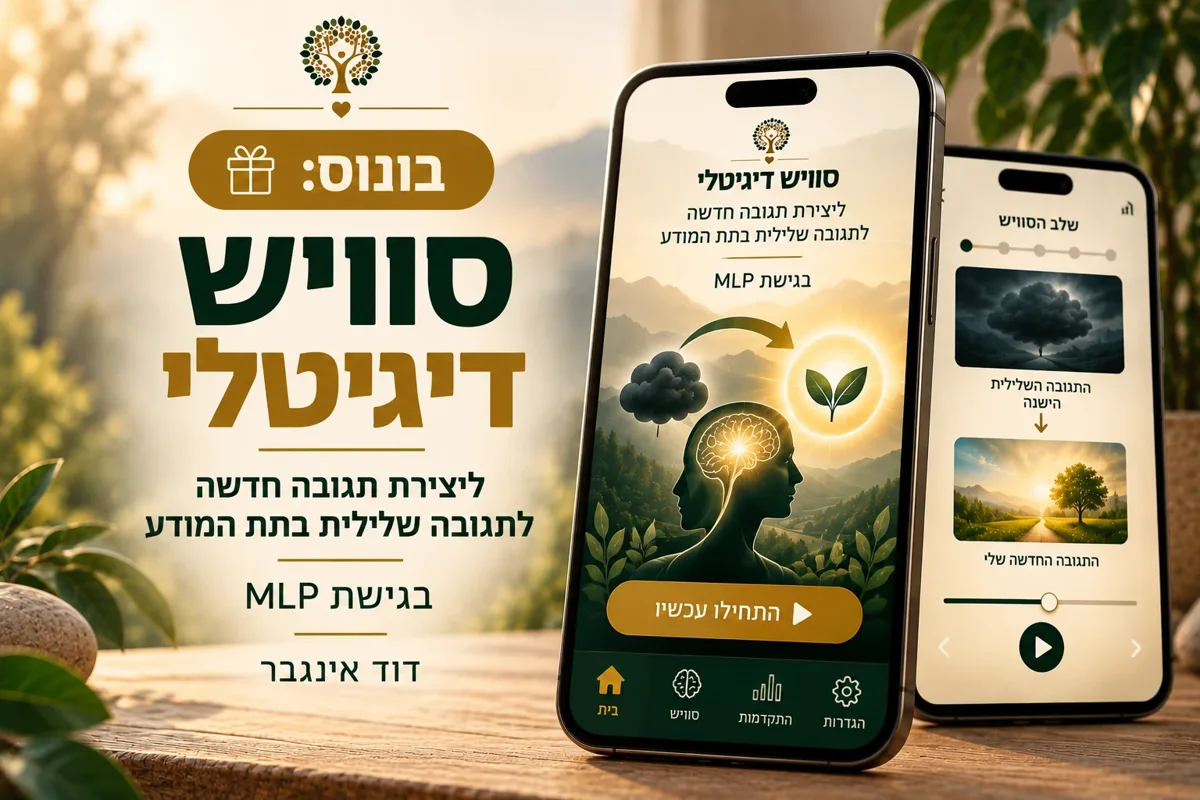
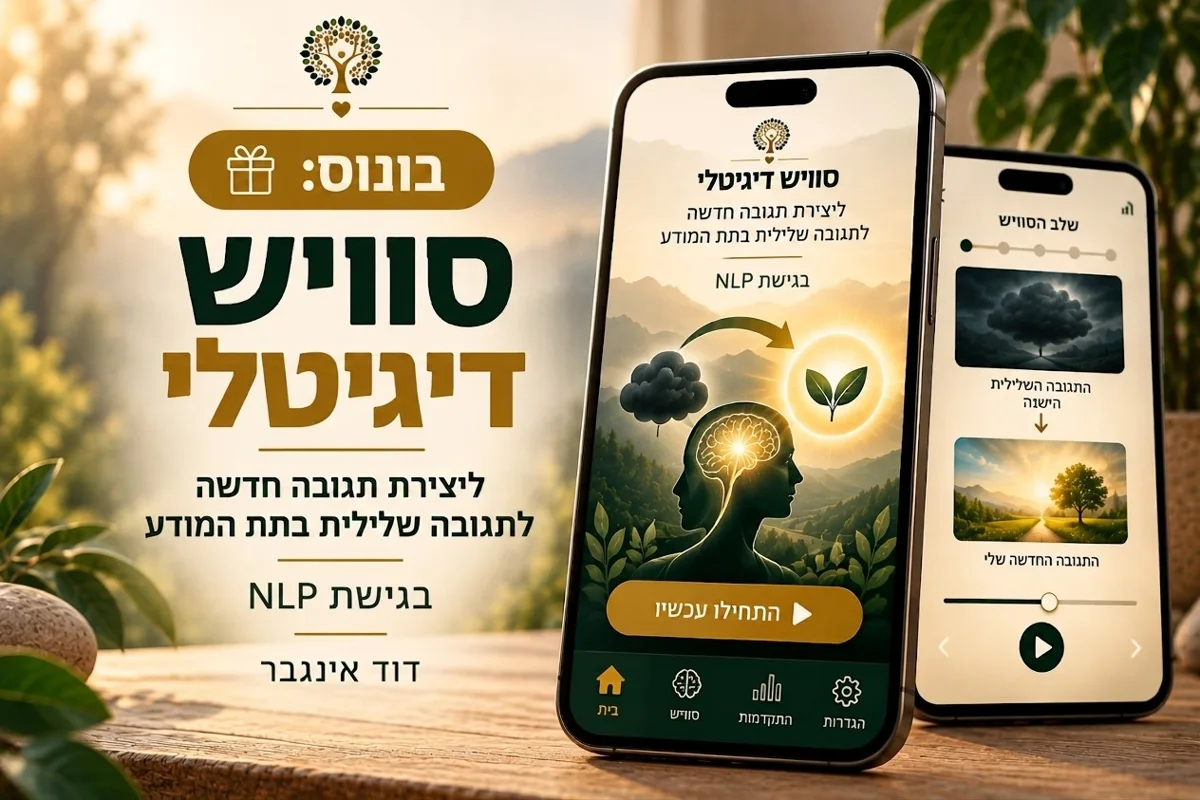
kurs/upsell: corrected NLP mockup and bonus images
Claude-Session: https://claude.ai/code/session_01SpGP6Wqt82ibf4opAuYhk3

diff --git a/CLAUDE.md b/CLAUDE.md
@@ -19,7 +19,7 @@ Personal site and marketing funnels for David Ingber (דוד אינגבר), an e
 - `hadracha/` — a **new, separate (third) lead-magnet entry point**, not part of `panel/` or `anxiety-wave/` — don't mix its naming into either. This is currently the **active** magnet flow for the anxiety/panic audience; `panel/`'s "מלכודת ההרגעה" self-test build still exists on disk but isn't the live path right now. Offer: **"מה לעשות כשהחרדה עולה"** (the original name from the general strategy doc's panel-2 "guide" step — intentionally reused here, distinct from `panel/`'s "מלכודת ההרגעה" and `anxiety-wave/`'s "כשהגל עולה"). `index.html` is a single opt-in landing page (name+email only, no phone, no matching questionnaire) built from David's own page-copy doc, styled in the same premium visual identity as `panel/masa-8-zehuyot.html` (dark green `#1B3A2C` + gold `#A9761B`/`#E0BE72`, Frank Ruhl Libre headings, Heebo body — see that file for the source of this palette). Submitting redirects to `thank-you.html` (a short congratulations screen in the same palette, with the accessibility widget and its own welcome-video slot via the `VIDEO_EMBED_URL` placeholder convention — a different video from `video.html`'s, currently unset pending David's new recording). The guide itself is no longer delivered by an on-page click-through: `thank-you.html` tells the visitor it's on its way to their email instead, and its CTA (plus a sticky mobile CTA) points straight at the premium program page, `https://davidingber.github.io/panel/masa-8-zehuyot.html` ("חוזרים לסמוך על עצמנו") — a deliberate change from the earlier "don't link to the premium page from this funnel" rule, made at David's explicit request. `video.html` still exists (its own embedded video via the same placeholder convention, a self-hosted guided-practice audio player, the accessibility widget, and privacy/accessibility footer links) but nothing in the live site links to it anymore — it's meant to be the page the (not yet built) follow-up email points to. Don't delete it, and don't re-link it from `thank-you.html` without being asked. Lead capture follows the `panel/` pattern (localStorage backup + Google Sheet webhook, see `panel/README.md`) and **is wired to a real sheet** — `index.html`'s `SHEET_WEBAPP_URL` points at the Apps Script Web App bound to the "לידים - מה לעשות כשהחרדה עולה" Google Sheet (David's `davidiingber@gmail.com` account). Don't overwrite that URL with a placeholder.
 - `kurs/` — the **front (paid entry) product sales page** (Panel 3 in the strategy doc): digital course **"איך להפסיק לפחד מהתקף החרדה הבא"**, 87 ₪ launch price (→129 → 149). `index.html` is built verbatim from David's own sales-page copy (supplied in chat 25.9), in the same premium green/gold identity as `hadracha/` (reuses `../hadracha/img/` for David's photo and real client testimonial screenshots, labeled as coming from therapy clients, not course buyers). Curriculum (David, 27.9): 10 chapters, each with David's one-line description (no per-lesson list), plus two bonuses: the trance and "3 טכניקות ויסות מבוססות מחקר" (mockups: `kurs/img/bonus-trance.webp`, `kurs/img/bonus-regulation.webp` — techniques are mindfulness, Jacobson relaxation, diaphragmatic breathing) — the earlier "שיעור פתיחה + 4 שיעורים" and "7 chapters / 12 lessons" structures are gone; keep any lesson-count mentions on the page in sync. The course mockup is David's own supplied image, `kurs/img/mockup-v3.webp`, showing the 10 chapters (also the og:image). The "about" section has David's stats strip (6 שנות ניסיון · 1,300+ שעות ליווי · 150+ אנשים · 600+ שעות הכשרה) plus a "15,000+ followers on his content about anxiety" line under it — numbers from David, 17.10. At David's explicit request this page uses the strategy doc's original front name, not the older "90 השניות הראשונות" (see `strategy/business-strategy.md`); don't rename it back. The order form (name/email/phone) saves to `localStorage` and posts to `SHEET_WEBAPP_URL`, then redirects to `PAYMENT_URL`, which is set to David's Sumit payment page (`https://pay.sumit.co.il/2lli6b/145zzqa/` — stored without the per-session `?cartid=` param). `SHEET_WEBAPP_URL` is still a `PASTE_YOUR...` placeholder, so orders are only saved to `localStorage` for now. An order bump is planned but not built yet: Sumit's hosted page can't be edited from here, so it will either be configured inside Sumit or built as our own `kurs/checkout.html` step before Sumit — pending David's bump product/price and a second Sumit link.
   CRO pass (17.10, from an external page review): hero H1 now states audience + benefit ("סובל מהתקפי חרדה? כך מפסיקים לפחד מההתקף הבא"), two real testimonial pull-quotes (with tappable screenshot thumbnails → lightbox) sit directly under the hero CTA and were moved out of the second pain section, long pain/"what was missed" text is split into alternating bands, chapters 4–10 are collapsed behind a `<details>`, and two mid-page CTAs were added. Not done because the data doesn't exist: testimonial names/initials, patient-count authority line, a dated/limited-seats urgency element.
-- `kurs/upsell.html` — **one-time-offer (אפסייל) page** shown right after the 87 ₪ front course purchase: course **"מביקורת לחמלה"** (self-criticism → compassion, 5 lessons, **180 ₪**, access for a year, refund per Israeli consumer-protection law), built from David's copy (chat, 17.10) and the upsell template PDFs (progress bar, congratulate, solve a *different* problem than the front product, one-time price, "no thanks" link). Progress label reads "שלב 2 מתוך 2" (no downsell step). `noindex`. A real per-visitor 15-minute countdown (`OFFER_MINUTES`, stored in `localStorage`; `?reset` restarts it) — on expiry the offer closes; it's client-side only, not server-enforced. Config vars at the top of its script: `UPSELL_PAYMENT_URL` (David will supply a link from a *different* payment system than Sumit) and `NO_THANKS_URL` (undecided) are still `PASTE_YOUR...` placeholders (button falls back to WhatsApp; "no thanks" shows an inline message). No video (David: not needed now). Testimonials are 8 clinic WhatsApp screenshots in `kurs/img/compassion-testimonial-*.jpg`, labeled as from therapy clients. The single bonus (18.10) is **סוויש דיגיטלי**, David's own visual-swish app (NLP technique: teaches the subconscious a new conditioning, reconnects to resources and the ideal self); mockup `kurs/img/mockup-compassion.webp` and bonus image `kurs/img/compassion-bonus-swish.webp` are David-supplied but both say "MLP" instead of "NLP" (typo in the generated images — page text uses NLP; ask David to regenerate).
+- `kurs/upsell.html` — **one-time-offer (אפסייל) page** shown right after the 87 ₪ front course purchase: course **"מביקורת לחמלה"** (self-criticism → compassion, 5 lessons, **180 ₪**, access for a year, refund per Israeli consumer-protection law), built from David's copy (chat, 17.10) and the upsell template PDFs (progress bar, congratulate, solve a *different* problem than the front product, one-time price, "no thanks" link). Progress label reads "שלב 2 מתוך 2" (no downsell step). `noindex`. A real per-visitor 15-minute countdown (`OFFER_MINUTES`, stored in `localStorage`; `?reset` restarts it) — on expiry the offer closes; it's client-side only, not server-enforced. Config vars at the top of its script: `UPSELL_PAYMENT_URL` (David will supply a link from a *different* payment system than Sumit) and `NO_THANKS_URL` (undecided) are still `PASTE_YOUR...` placeholders (button falls back to WhatsApp; "no thanks" shows an inline message). No video (David: not needed now). Testimonials are 8 clinic WhatsApp screenshots in `kurs/img/compassion-testimonial-*.jpg`, labeled as from therapy clients. The single bonus (18.10) is **סוויש דיגיטלי**, David's own visual-swish app (NLP technique: teaches the subconscious a new conditioning, reconnects to resources and the ideal self); mockup `kurs/img/mockup-compassion.webp` and bonus image `kurs/img/compassion-bonus-swish.webp` are David-supplied (corrected versions saying NLP, 19.10).
 - `privacy/`, `accessibility/` — site-wide privacy policy and accessibility statement pages. Pages that collect leads or serve as funnel entry points should link both in their footer and include the accessibility widget (floating `♿` button bottom-left — text size, contrast, underline links, reduce motion; see `hadracha/video.html` or `anxiety-wave/index.html` for the reference markup/CSS/JS to copy).
 
 ## Conventions
